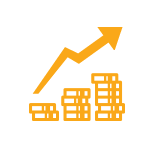
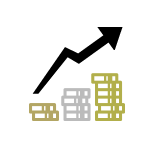
added img src to pages

Changed region(s): [[0.1867, 0.48, 0.8533, 0.8267], [0.2133, 0.16, 0.8267, 0.64]]

diff --git a/businessservices.html b/businessservices.html
@@ -11,27 +11,27 @@
             <div class="row row-background img-rounded">
               <div class="col-md-2 col-md-offset-1">
                 <p><a href="#receivables"><h4 class=" text-center">Receivables<br/><br/></h4></a></p>
-                <a href="#receivables"><img src="http://placehold.it/150x150" class="img-circle center-block"></a>
+                <a href="#receivables"><img src="img/receivables.png" class="img-circle center-block"></a>
                 <p class="text-center spacer">For every payment collection scenario, Central Illinois Bank offers to the solution you need to help your business run smoothly.  We can optimize the collection process to help you maximize your checking account balances.</p>
               </div>
               <div class="col-md-2">
                 <p><a href="#payables"><h4 class="text-center">Payables<br/><br/></h4></a></p>
-                <a href="#payables"><img src="http://placehold.it/150x150" class="img-circle center-block"></a>
+                <a href="#payables"><img src="img/payables.png" class="img-circle center-block"></a>
                 <p class="text-center spacer">A smart payment strategy can have a major impact on your businesses cash flow.  Let our Treasury Management specialists help you design a plan that works well for your business</p>
               </div>
               <div class="col-md-2">
                 <p><a href="#moneymanagement"><h4 class="text-center">Money<br>Management</h4></a></p>
-                <a href="#moneymanagement"><img src="http://placehold.it/150x150" class="img-circle center-block"></a>
+                <a href="#moneymanagement"><img src="img/moneymanagement.png" class="img-circle center-block"></a>
                 <p class="text-center spacer">We want to help you manage your cash flow more effectively.  Our money management tools can provide assistance in this process.  </p>
               </div>
               <div class="col-md-2">
                 <p><a href="#merchant"><h4 class="text-center">Merchant<br/>Services</h4></a></p>
-                <a href="#merchant"><img src="http://placehold.it/150x150" class="img-circle center-block"></a>
+                <a href="#merchant"><img src="img/merchantservices.png" class="img-circle center-block"></a>
                 <p class="text-center spacer">Our team can offer a great way to streamline incoming payments, and enjoy other benefits, all while positively impacting the bottom line.</p>
               </div>
               <div class="col-md-2">
                 <p><a href="#capital"><h4 class="text-center">Capital<br/>Markets</h4></a></p>
-                <a href="#capital"><img src="http://placehold.it/150x150" class="img-circle center-block"></a>
+                <a href="#capital"><img src="img/capitalmarkets.png" class="img-circle center-block"></a>
                 <p class="text-center spacer">You want to grow your business, grow your capital, and improve funding for future projects.  Central Illinois Bank can provide the support to help you with this endeavor.</p>
               </div>
             </div><!-- row -->

diff --git a/businessloans.html b/businessloans.html
@@ -12,12 +12,12 @@
             <div class="row row-background img-rounded">
               <div class="col-md-3 col-md-offset-1">
                 <p><a href="#smallbusiness"><h4 class="text-center">Small<br>Business<br/>Loans</h4></a></p>
-                <a href="#smallbusiness"><img src="http://placehold.it/150x150" class="img-circle center-block"></a>
+                <a href="#smallbusiness"><img src="img/smallbusinessloan.png" class="img-circle center-block"></a>
                 <p class="text-center spacer">When your business needs funds to grow Central Illinois Bank may be the answer.  Our Small Business Lenders focus on helping you obtain the extra cash flow you need to get started or complete the next project.</p>
               </div>
               <div class="col-md-3">
                 <p><a href="#commercial"><h4 class="text-center">Commercial<br>Loans<br/><br/></h4></a></p>
-                <a href="#commercial"><img src="http://placehold.it/150x150" class="img-circle center-block"></a>
+                <a href="#commercial"><img src="img/commercialloans.png" class="img-circle center-block"></a>
                 <p class="text-center spacer">Central Illinois Bank assists middle market businesses obtain the capital they need to keep their business moving forward.  Companies can count on us to flexible and creative financing solutions in a timely manner.</p>
               </div>
               <div class="col-md-3">

diff --git a/businesschecking.html b/businesschecking.html
@@ -17,12 +17,12 @@
               </div>
               <div class="col-md-3">
                 <p><a href="#advantage"><h4 class="text-center">Advantage<br>Business<br/>Checking</h4></a></p>
-                <a href="#advantage"><img src="http://placehold.it/150x150" class="img-circle center-block"></a>
+                <a href="#advantage"><img src="img/advantagechecking.png" class="img-circle center-block"></a>
                 <p class="text-center spacer">If you need more than your basic account, but minimal cash management needs, Advantage Business Checking is exactly what you are looking for.</p>
               </div>
               <div class="col-md-3">
                 <p><a href="#premier"><h4 class="text-center">Premier<br>Business<br/>Checking</h4></a></p>
-                <a href="#premier"><img src="http://placehold.it/150x150" class="img-circle center-block"></a>
+                <a href="#premier"><img src="img/premierchecking.png" class="img-circle center-block"></a>
                 <p class="text-center spacer">Does your business account have a large number of transactions?  Will you need cash management services?  Sounds like our analysis style Premier Business Checking is just what you need.</p>
               </div>
             </div> <!-- row -->

diff --git a/employeeservices.html b/employeeservices.html
@@ -12,7 +12,7 @@
             <div class="row row-background img-rounded">
               <div class="col-md-3 col-md-offset-1">
                 <p><a href="#bankofchoice"><h4 class="text-center">Bank<br>of<br/>Choice</h4></a></p>
-                <a href="#bankofchoice"><img src="http://placehold.it/150x150" class="img-circle center-block"></a>
+                <a href="#bankofchoice"><img src="img/bankofchoice.png" class="img-circle center-block"></a>
                 <p class="text-center spacer">We can help you offer your employees an added benefit that also benefits you with our Bank of Choice program.</p>
               </div>
               <div class="col-md-3">
